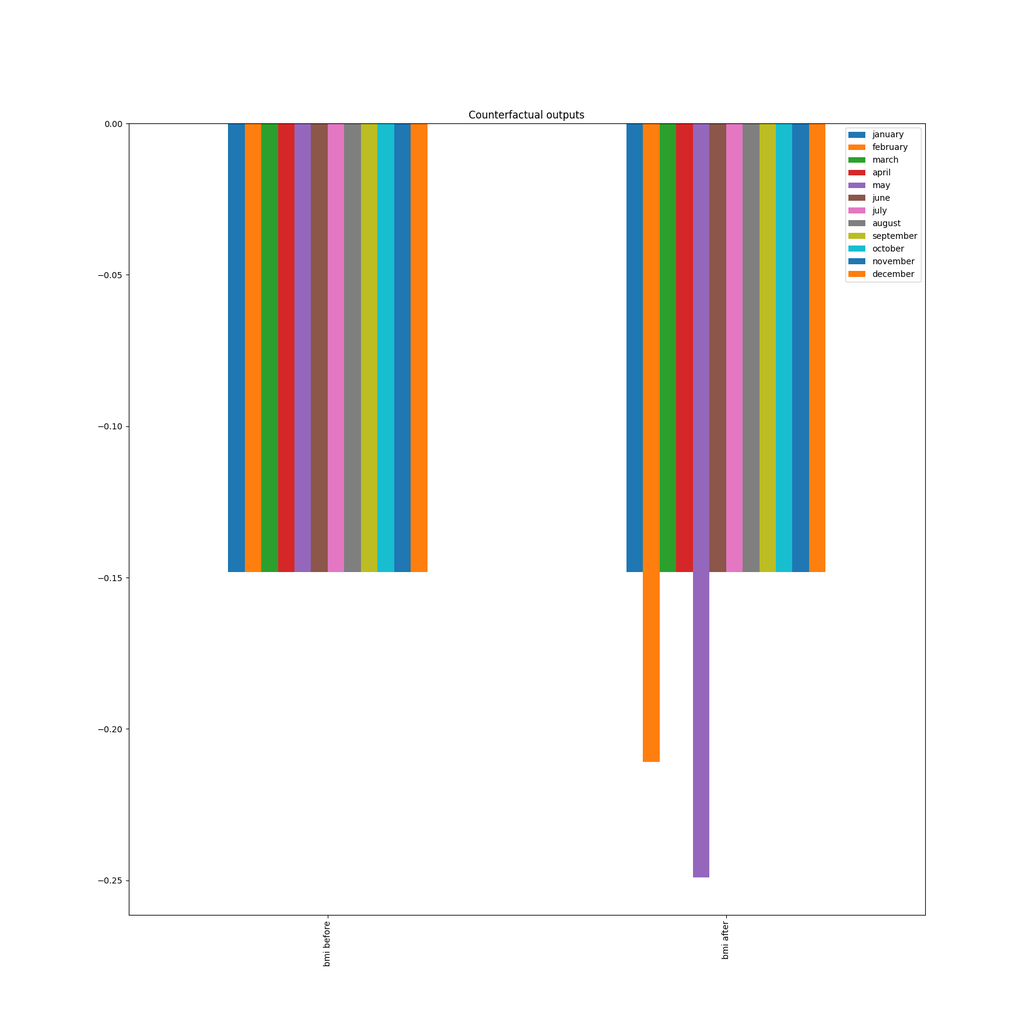
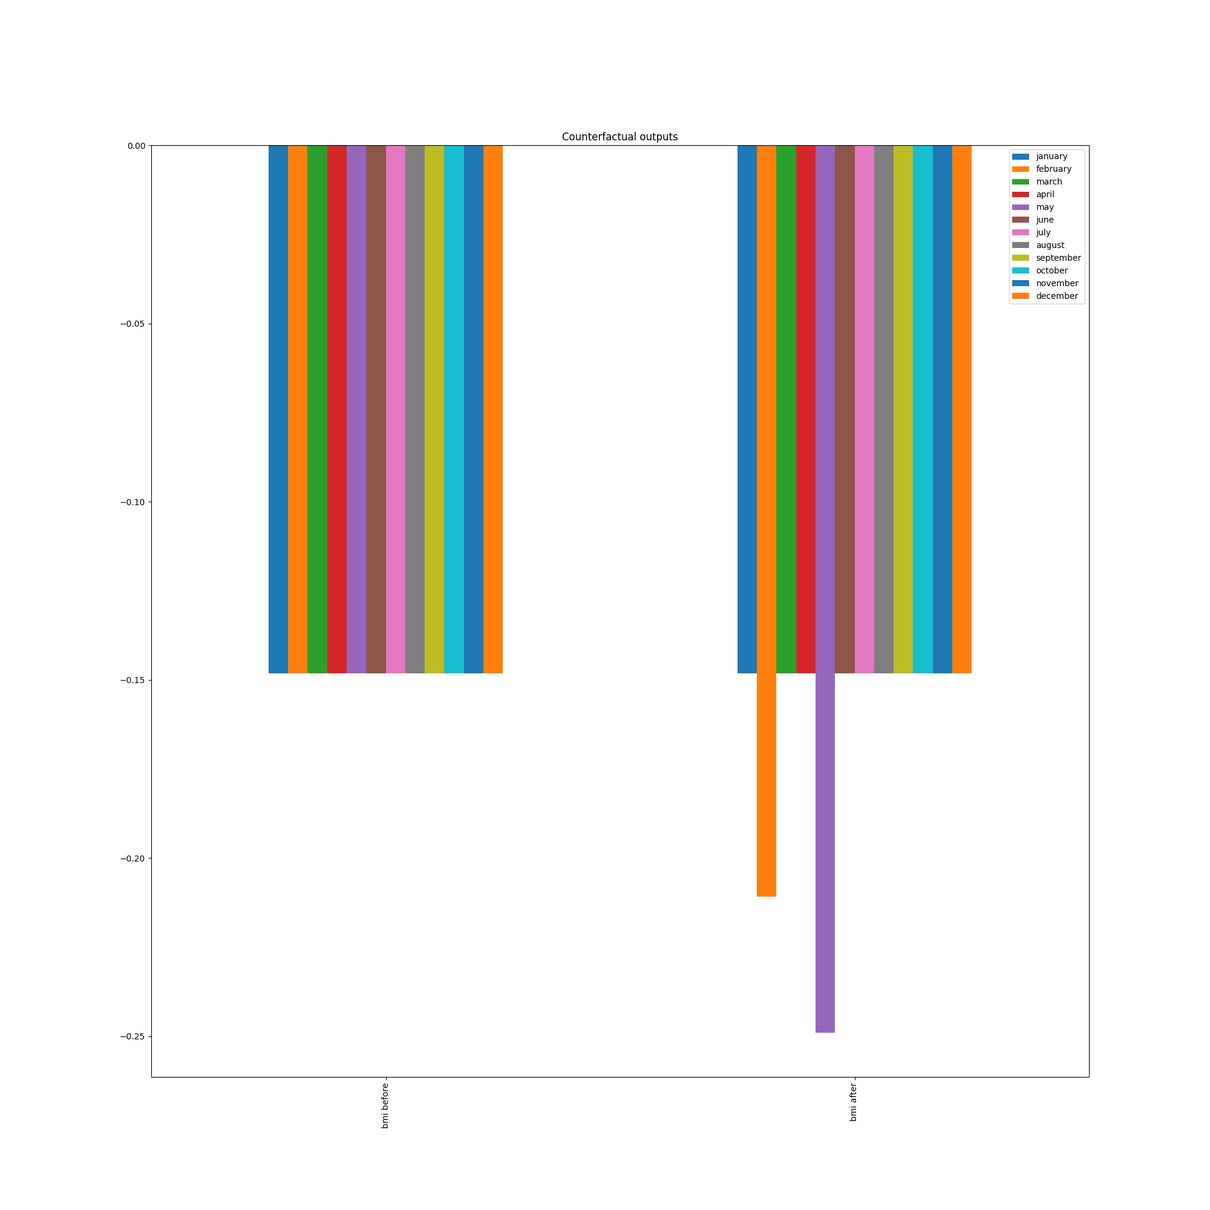
all analyses + refactoring + graphs

diff --git a/personas_analysis.py b/personas_analysis.py
@@ -41,140 +41,205 @@ gcm.auto.assign_causal_mechanisms(causal_model=causal_model_for_counterfactual_a
 fitting = gcm.fit(causal_model=causal_model_for_counterfactual_analysis, data=fitness_data,
                   return_evaluation_summary=True)
 
-pids_personas = [2, 5, 6, 8, 11, 26, 30, 41, 108, 165, 172, 262]
+pids_personas = [2, 5, 6, 8, 11, 26, 30, 41, 108, 165, 202, 262]
 
-
-# PID=2: reduce daily_steps
-fitness_data_pid = fitness_data[fitness_data['participant_id'] == 2]
-
-counterfactual_data1 = gcm.counterfactual_samples(causal_model_for_counterfactual_analysis,
-                                                  {'daily_steps': lambda x: x - 2},
-                                                  observed_data=fitness_data_pid)
-array_plot = np.array(
-    [fitness_data_pid['calories_burned'], fitness_data_pid['fitness_level'], fitness_data_pid['bmi'],
-     counterfactual_data1['calories_burned'], counterfactual_data1['fitness_level'],
-     counterfactual_data1['bmi']])
-months = ['january', 'february', 'march', 'april', 'may', 'june', 'july', 'august', 'september', 'october',
-          'november', 'december']
-df_plot = pd.DataFrame(array_plot, columns=months, index=['calories before', 'fit level before', 'bmi before',
-                                                          'calories after', 'fit level after', 'bmi after'])
-bar_plot = df_plot.plot.bar(title="Counterfactual outputs", figsize=(17, 17))
-fig = bar_plot.get_figure()
-fig.savefig('/Users/luca_lavazza/Documents/GitHub/Health_Cefriel/graphs/Counterfactual-duration_minutes->calories_burned-pid=' + str(2))
-
-
-# PID=5: smoking_status => resting_heart_rate
-fitness_data_pid = fitness_data[fitness_data['participant_id'] == 5]
-
-counterfactual_data1 = gcm.counterfactual_samples(causal_model_for_counterfactual_analysis,
-                                                  {'smoking_status': lambda x: x + 1},  # from current to former
-                                                  observed_data=fitness_data_pid)
-counterfactual_data2 = gcm.counterfactual_samples(causal_model_for_counterfactual_analysis,
-                                                  {'smoking_status': lambda x: x - 1},  # from current to never
-                                                  observed_data=fitness_data_pid)
-array_plot = np.array(
-    [fitness_data_pid['resting_heart_rate'], counterfactual_data1['resting_heart_rate'], counterfactual_data2['resting_heart_rate']])
-months = ['january', 'february', 'march', 'april', 'may', 'june', 'july', 'august', 'september', 'october',
-          'november', 'december']
-df_plot = pd.DataFrame(array_plot, columns=months, index=['resting_heart_rate when smoking', 'resting_heart_rate when quitting',
-                                                          'resting_heart_rate if never smoked'])
-bar_plot = df_plot.plot.bar(title="Counterfactual outputs", figsize=(17, 17))
-fig = bar_plot.get_figure()
-fig.savefig('/Users/luca_lavazza/Documents/GitHub/Health_Cefriel/graphs/Counterfactual-duration_minutes->calories_burned-pid=' + str(5))
-
-
-# PID=6: duration_minutes => calories_burned
-fitness_data_pid = fitness_data[fitness_data['participant_id'] == 6]
-counterfactual_data1 = gcm.counterfactual_samples(causal_model_for_counterfactual_analysis,
-                                                  {'duration_minutes': lambda x: -3},
-                                                  observed_data=fitness_data_pid)
-counterfactual_data2 = gcm.counterfactual_samples(causal_model_for_counterfactual_analysis,
-                                                  {'duration_minutes': lambda x: 3},
-                                                  observed_data=fitness_data_pid)
-
-
-array_plot = np.array([fitness_data_pid['calories_burned'], counterfactual_data1['calories_burned'], counterfactual_data2['calories_burned']])
-months = ['january', 'february', 'march', 'april', 'may', 'june', 'july', 'august', 'september', 'october', 'november', 'december']
-df_plot = pd.DataFrame(array_plot, columns=months, index=['regular', 'lack_of', 'too_much'])
-
-bar_plot = df_plot.plot.bar(title="Counterfactual outputs", figsize=(17, 17))
-fig = bar_plot.get_figure()
-fig.savefig('/Users/luca_lavazza/Documents/GitHub/Health_Cefriel/graphs/Counterfactual-duration_minutes->calories_burned-pid=' + str(6))
-
-
-# PID=8: increase duration_minutes
-fitness_data_pid = fitness_data[fitness_data['participant_id'] == 8]
-
-counterfactual_data1 = gcm.counterfactual_samples(causal_model_for_counterfactual_analysis,
-                                                  {'duration_minutes': lambda x: x + 4},
-                                                  observed_data=fitness_data_pid)
-array_plot = np.array(
-    [fitness_data_pid['calories_burned'], fitness_data_pid['fitness_level'], fitness_data_pid['resting_heart_rate'],
-     fitness_data_pid['bmi'], counterfactual_data1['calories_burned'], counterfactual_data1['fitness_level'],
-     counterfactual_data1['resting_heart_rate'], counterfactual_data1['bmi']])
-months = ['january', 'february', 'march', 'april', 'may', 'june', 'july', 'august', 'september', 'october',
-          'november', 'december']
-df_plot = pd.DataFrame(array_plot, columns=months, index=['calories before', 'fit level before', 'heart before', 'bmi before',
-                                                          'calories after', 'fit level after', 'heart after', 'bmi after'])
-bar_plot = df_plot.plot.bar(title="Counterfactual outputs", figsize=(17, 17))
-fig = bar_plot.get_figure()
-fig.savefig('/Users/luca_lavazza/Documents/GitHub/Health_Cefriel/graphs/Counterfactual-duration_minutes->calories_burned-pid=' + str(8))
-
-
-# PID=11: daily_steps => bmi
-fitness_data_pid = fitness_data[fitness_data['participant_id'] == 11]
-
-counterfactual_data1 = gcm.counterfactual_samples(causal_model_for_counterfactual_analysis,
-                                                  {'daily_steps': lambda x: x + 2},
-                                                  observed_data=fitness_data_pid)
-array_plot = np.array([fitness_data_pid['bmi'], counterfactual_data1['bmi']])
-months = ['january', 'february', 'march', 'april', 'may', 'june', 'july', 'august', 'september', 'october',
-          'november', 'december']
-df_plot = pd.DataFrame(array_plot, columns=months, index=['bmi before', 'bmi after'])
-bar_plot = df_plot.plot.bar(title="Counterfactual outputs", figsize=(17, 17))
-fig = bar_plot.get_figure()
-fig.savefig('/Users/luca_lavazza/Documents/GitHub/Health_Cefriel/graphs/Counterfactual-duration_minutes->calories_burned-pid=' + str(11))
-
-
-# PID=26: intensity ==> avg_heart_rate
-fitness_data_pid = fitness_data[fitness_data['participant_id'] == 26]
-counterfactual_data1 = gcm.counterfactual_samples(causal_model_for_counterfactual_analysis,
-                                                  {'intensity': lambda x: 0},  # low intensity
-                                                  observed_data=fitness_data_pid)
-counterfactual_data2 = gcm.counterfactual_samples(causal_model_for_counterfactual_analysis,
-                                                  {'intensity': lambda x: 1},  # average intensity
-                                                  observed_data=fitness_data_pid)
-counterfactual_data3 = gcm.counterfactual_samples(causal_model_for_counterfactual_analysis,
-                                                  {'intensity': lambda x: 2},  # high intensity
-                                                  observed_data=fitness_data_pid)
-
-
-array_plot = np.array([fitness_data_pid['avg_heart_rate'], counterfactual_data1['avg_heart_rate'],
-                       counterfactual_data2['avg_heart_rate'], counterfactual_data3['avg_heart_rate']])
-months = ['january', 'february', 'march', 'april', 'may', 'june', 'july', 'august', 'september', 'october', 'november', 'december']
-df_plot = pd.DataFrame(array_plot, columns=months, index=['regular', 'low', 'average', 'high'])
-
-bar_plot = df_plot.plot.bar(title="Counterfactual outputs", figsize=(17, 17))
-fig = bar_plot.get_figure()
-fig.savefig('/Users/luca_lavazza/Documents/GitHub/Health_Cefriel/graphs/Counterfactual-duration_minutes->calories_burned-pid=' + str(26))
-
-
-# PID=30: smoking_status ==> calories_burned
-fitness_data_pid = fitness_data[fitness_data['participant_id'] == 30]
-
-counterfactual_data1 = gcm.counterfactual_samples(causal_model_for_counterfactual_analysis,
-                                                  {'smoking_status': lambda x: x + 1},  # from current to former
-                                                  observed_data=fitness_data_pid)
-counterfactual_data2 = gcm.counterfactual_samples(causal_model_for_counterfactual_analysis,
-                                                  {'smoking_status': lambda x: x - 1},  # from current to never
-                                                  observed_data=fitness_data_pid)
-array_plot = np.array([fitness_data_pid['calories_burned'], counterfactual_data1['calories_burned'], counterfactual_data2['calories_burned']])
-months = ['january', 'february', 'march', 'april', 'may', 'june', 'july', 'august', 'september', 'october',
-          'november', 'december']
-df_plot = pd.DataFrame(array_plot, columns=months, index=['calories_burned when smoking', 'calories_burned when quitting',
-                                                          'calories_burned if never smoked'])
-bar_plot = df_plot.plot.bar(title="Counterfactual outputs", figsize=(17, 17))
-fig = bar_plot.get_figure()
-fig.savefig('/Users/luca_lavazza/Documents/GitHub/Health_Cefriel/graphs/Counterfactual-duration_minutes->calories_burned-pid=' + str(30))
-
+for pid in pids_personas:
+    if pid == 2:
+        # PID=2: reduce daily_steps
+        fitness_data_pid = fitness_data[fitness_data['participant_id'] == 2]
+        counterfactual_data1 = gcm.counterfactual_samples(causal_model_for_counterfactual_analysis,
+                                                          {'daily_steps': lambda x: x - 2},
+                                                          observed_data=fitness_data_pid)
+        array_plot = np.array(
+            [fitness_data_pid['calories_burned'], fitness_data_pid['fitness_level'], fitness_data_pid['bmi'],
+             counterfactual_data1['calories_burned'], counterfactual_data1['fitness_level'], counterfactual_data1['bmi']])
+        months = ['january', 'february', 'march', 'april', 'may', 'june', 'july', 'august', 'september', 'october',
+                  'november', 'december']
+        df_plot = pd.DataFrame(array_plot, columns=months, index=['calories before', 'fit level before', 'bmi before',
+                                                                  'calories after', 'fit level after', 'bmi after'])
+        bar_plot = df_plot.plot.bar(title="Counterfactual outputs", figsize=(20, 20))
+        fig = bar_plot.get_figure()
+        fig.savefig('/Users/luca_lavazza/Documents/GitHub/Health_Cefriel/graphs/Counterfactual-duration_minutes->calories_burned-pid=' + str(2))
+    elif pid == 5:
+        # PID=5: smoking_status => resting_heart_rate
+        fitness_data_pid = fitness_data[fitness_data['participant_id'] == 5]
+        counterfactual_data1 = gcm.counterfactual_samples(causal_model_for_counterfactual_analysis,
+                                                          {'smoking_status': lambda x: x + 1},  # from current to former
+                                                          observed_data=fitness_data_pid)
+        counterfactual_data2 = gcm.counterfactual_samples(causal_model_for_counterfactual_analysis,
+                                                          {'smoking_status': lambda x: x - 1},  # from current to never
+                                                          observed_data=fitness_data_pid)
+        array_plot = np.array(
+            [fitness_data_pid['resting_heart_rate'],
+             counterfactual_data1['resting_heart_rate'],
+             counterfactual_data2['resting_heart_rate']])
+        months = ['january', 'february', 'march', 'april', 'may', 'june', 'july', 'august', 'september', 'october',
+                  'november', 'december']
+        df_plot = pd.DataFrame(array_plot, columns=months,
+                               index=['resting_heart_rate when smoking', 'resting_heart_rate when quitting',
+                                      'resting_heart_rate if never smoked'])
+        bar_plot = df_plot.plot.bar(title="Counterfactual outputs", figsize=(20, 20))
+        fig = bar_plot.get_figure()
+        fig.savefig('/Users/luca_lavazza/Documents/GitHub/Health_Cefriel/graphs/Counterfactual-duration_minutes->calories_burned-pid=' + str(5))
+    elif pid == 6:
+        # PID=6: duration_minutes => calories_burned
+        fitness_data_pid = fitness_data[fitness_data['participant_id'] == 6]
+        counterfactual_data1 = gcm.counterfactual_samples(causal_model_for_counterfactual_analysis,
+                                                          {'duration_minutes': lambda x: -3},
+                                                          observed_data=fitness_data_pid)
+        counterfactual_data2 = gcm.counterfactual_samples(causal_model_for_counterfactual_analysis,
+                                                          {'duration_minutes': lambda x: 3},
+                                                          observed_data=fitness_data_pid)
+        array_plot = np.array([fitness_data_pid['calories_burned'],
+                               counterfactual_data1['calories_burned'],
+                               counterfactual_data2['calories_burned']])
+        months = ['january', 'february', 'march', 'april', 'may', 'june', 'july', 'august', 'september', 'october',
+                  'november', 'december']
+        df_plot = pd.DataFrame(array_plot, columns=months, index=['regular', 'lack_of', 'too_much'])
+        bar_plot = df_plot.plot.bar(title="Counterfactual outputs", figsize=(20, 20))
+        fig = bar_plot.get_figure()
+        fig.savefig('/Users/luca_lavazza/Documents/GitHub/Health_Cefriel/graphs/Counterfactual-duration_minutes->calories_burned-pid=' + str(6))
+    elif pid == 8:
+        # PID=8: increase duration_minutes
+        fitness_data_pid = fitness_data[fitness_data['participant_id'] == 8]
+        counterfactual_data1 = gcm.counterfactual_samples(causal_model_for_counterfactual_analysis,
+                                                          {'duration_minutes': lambda x: x + 4},
+                                                          observed_data=fitness_data_pid)
+        array_plot = np.array(
+            [fitness_data_pid['calories_burned'], fitness_data_pid['fitness_level'],
+             fitness_data_pid['resting_heart_rate'], fitness_data_pid['bmi'],
+             counterfactual_data1['calories_burned'], counterfactual_data1['fitness_level'],
+             counterfactual_data1['resting_heart_rate'], counterfactual_data1['bmi']])
+        months = ['january', 'february', 'march', 'april', 'may', 'june', 'july', 'august', 'september', 'october',
+                  'november', 'december']
+        df_plot = pd.DataFrame(array_plot, columns=months,
+                               index=['calories before', 'fit level before', 'heart before', 'bmi before',
+                                      'calories after', 'fit level after', 'heart after', 'bmi after'])
+        bar_plot = df_plot.plot.bar(title="Counterfactual outputs", figsize=(20, 20))
+        fig = bar_plot.get_figure()
+        fig.savefig('/Users/luca_lavazza/Documents/GitHub/Health_Cefriel/graphs/Counterfactual-duration_minutes->calories_burned-pid=' + str(8))
+    elif pid == 11:
+        # PID=11: daily_steps => bmi
+        fitness_data_pid = fitness_data[fitness_data['participant_id'] == 11]
+        counterfactual_data1 = gcm.counterfactual_samples(causal_model_for_counterfactual_analysis,
+                                                          {'daily_steps': lambda x: x + 2},
+                                                          observed_data=fitness_data_pid)
+        array_plot = np.array([fitness_data_pid['bmi'], counterfactual_data1['bmi']])
+        months = ['january', 'february', 'march', 'april', 'may', 'june', 'july', 'august', 'september', 'october',
+                  'november', 'december']
+        df_plot = pd.DataFrame(array_plot, columns=months, index=['bmi before', 'bmi after'])
+        bar_plot = df_plot.plot.bar(title="Counterfactual outputs", figsize=(20, 20))
+        fig = bar_plot.get_figure()
+        fig.savefig('/Users/luca_lavazza/Documents/GitHub/Health_Cefriel/graphs/Counterfactual-duration_minutes->calories_burned-pid=' + str(11))
+    elif pid == 26:
+        # PID=26: intensity ==> avg_heart_rate
+        fitness_data_pid = fitness_data[fitness_data['participant_id'] == 26]
+        counterfactual_data1 = gcm.counterfactual_samples(causal_model_for_counterfactual_analysis,
+                                                          {'intensity': lambda x: 0},  # low intensity
+                                                          observed_data=fitness_data_pid)
+        counterfactual_data2 = gcm.counterfactual_samples(causal_model_for_counterfactual_analysis,
+                                                          {'intensity': lambda x: 1},  # average intensity
+                                                          observed_data=fitness_data_pid)
+        counterfactual_data3 = gcm.counterfactual_samples(causal_model_for_counterfactual_analysis,
+                                                          {'intensity': lambda x: 2},  # high intensity
+                                                          observed_data=fitness_data_pid)
+        array_plot = np.array([fitness_data_pid['avg_heart_rate'], counterfactual_data1['avg_heart_rate'],
+                               counterfactual_data2['avg_heart_rate'], counterfactual_data3['avg_heart_rate']])
+        months = ['january', 'february', 'march', 'april', 'may', 'june', 'july', 'august', 'september', 'october',
+                  'november', 'december']
+        df_plot = pd.DataFrame(array_plot, columns=months, index=['regular', 'low', 'average', 'high'])
+        bar_plot = df_plot.plot.bar(title="Counterfactual outputs", figsize=(20, 20))
+        fig = bar_plot.get_figure()
+        fig.savefig('/Users/luca_lavazza/Documents/GitHub/Health_Cefriel/graphs/Counterfactual-duration_minutes->calories_burned-pid=' + str(26))
+    elif pid == 30:
+        # PID=30: smoking_status ==> calories_burned
+        fitness_data_pid = fitness_data[fitness_data['participant_id'] == 30]
+        counterfactual_data1 = gcm.counterfactual_samples(causal_model_for_counterfactual_analysis,
+                                                          {'smoking_status': lambda x: x + 1},  # from current to former
+                                                          observed_data=fitness_data_pid)
+        counterfactual_data2 = gcm.counterfactual_samples(causal_model_for_counterfactual_analysis,
+                                                          {'smoking_status': lambda x: x - 1},  # from current to never
+                                                          observed_data=fitness_data_pid)
+        array_plot = np.array([fitness_data_pid['calories_burned'],
+                               counterfactual_data1['calories_burned'],
+                               counterfactual_data2['calories_burned']])
+        months = ['january', 'february', 'march', 'april', 'may', 'june', 'july', 'august', 'september', 'october',
+                  'november', 'december']
+        df_plot = pd.DataFrame(array_plot, columns=months,
+                               index=['calories_burned when smoking', 'calories_burned when quitting',
+                                      'calories_burned if never smoked'])
+        bar_plot = df_plot.plot.bar(title="Counterfactual outputs", figsize=(20, 20))
+        fig = bar_plot.get_figure()
+        fig.savefig('/Users/luca_lavazza/Documents/GitHub/Health_Cefriel/graphs/Counterfactual-duration_minutes->calories_burned-pid=' + str(30))
+    elif pid == 41:
+        # PID=41: daily_steps ==> calories_burned
+        fitness_data_pid = fitness_data[fitness_data['participant_id'] == 41]
+        counterfactual_data1 = gcm.counterfactual_samples(causal_model_for_counterfactual_analysis,
+                                                          {'daily_steps': lambda x: x + 2},
+                                                          observed_data=fitness_data_pid)
+        array_plot = np.array([fitness_data_pid['calories_burned'], counterfactual_data1['calories_burned']])
+        months = ['january', 'february', 'march', 'april', 'may', 'june', 'july', 'august', 'september', 'october',
+                  'november', 'december']
+        df_plot = pd.DataFrame(array_plot, columns=months, index=['calories_burned before', 'calories_burned after'])
+        bar_plot = df_plot.plot.bar(title="Counterfactual outputs", figsize=(20, 20))
+        fig = bar_plot.get_figure()
+        fig.savefig('/Users/luca_lavazza/Documents/GitHub/Health_Cefriel/graphs/Counterfactual-duration_minutes->calories_burned-pid=' + str(41))
+    elif pid == 108:
+        # PID=108: daily_steps ==> fitness_level
+        fitness_data_pid = fitness_data[fitness_data['participant_id'] == 108]
+        counterfactual_data1 = gcm.counterfactual_samples(causal_model_for_counterfactual_analysis,
+                                                          {'daily_steps': lambda x: x + 2},
+                                                          observed_data=fitness_data_pid)
+        array_plot = np.array([fitness_data_pid['fitness_level'], counterfactual_data1['fitness_level']])
+        months = ['january', 'february', 'march', 'april', 'may', 'june', 'july', 'august', 'september', 'october',
+                  'november', 'december']
+        df_plot = pd.DataFrame(array_plot, columns=months, index=['fitness_level before', 'fitness_level after'])
+        bar_plot = df_plot.plot.bar(title="Counterfactual outputs", figsize=(20, 20))
+        fig = bar_plot.get_figure()
+        fig.savefig('/Users/luca_lavazza/Documents/GitHub/Health_Cefriel/graphs/Counterfactual-duration_minutes->calories_burned-pid=' + str(108))
+    elif pid == 165:
+        # PID=165: duration_minutes ==> fitness_level/bmi
+        fitness_data_pid = fitness_data[fitness_data['participant_id'] == 165]
+        counterfactual_data1 = gcm.counterfactual_samples(causal_model_for_counterfactual_analysis,
+                                                          {'duration_minutes': lambda x: x + 3},
+                                                          observed_data=fitness_data_pid)
+        array_plot = np.array([fitness_data_pid['fitness_level'], fitness_data_pid['bmi'],
+                               counterfactual_data1['fitness_level'], counterfactual_data1['bmi']])
+        months = ['january', 'february', 'march', 'april', 'may', 'june', 'july', 'august', 'september', 'october',
+                  'november', 'december']
+        df_plot = pd.DataFrame(array_plot, columns=months,
+                               index=['fitness_level before', 'bmi_before', 'fitness_level after', 'bmi_after'])
+        bar_plot = df_plot.plot.bar(title="Counterfactual outputs", figsize=(20, 20))
+        fig = bar_plot.get_figure()
+        fig.savefig('/Users/luca_lavazza/Documents/GitHub/Health_Cefriel/graphs/Counterfactual-duration_minutes->calories_burned-pid=' + str(165))
+    elif pid == 202:
+        # PID=202: duration_minutes ==> resting_heart_rate
+        fitness_data_pid = fitness_data[fitness_data['participant_id'] == 202]
+        counterfactual_data1 = gcm.counterfactual_samples(causal_model_for_counterfactual_analysis,
+                                                          {'duration_minutes': lambda x: x + 3},
+                                                          observed_data=fitness_data_pid)
+        array_plot = np.array([fitness_data_pid['resting_heart_rate'], counterfactual_data1['resting_heart_rate']])
+        months = ['january', 'february', 'march', 'april', 'may', 'june', 'july', 'august', 'september', 'october',
+                  'november', 'december']
+        df_plot = pd.DataFrame(array_plot, columns=months,
+                               index=['resting_heart_rate before', 'resting_heart_rate after'])
+        bar_plot = df_plot.plot.bar(title="Counterfactual outputs", figsize=(20, 20))
+        fig = bar_plot.get_figure()
+        fig.savefig('/Users/luca_lavazza/Documents/GitHub/Health_Cefriel/graphs/Counterfactual-duration_minutes->calories_burned-pid=' + str(202))
+    elif pid == 262:
+        # PID=262: daily_steps ==> fitness_level + duration_minutes ==> fitness_level
+        fitness_data_pid = fitness_data[fitness_data['participant_id'] == 262]
+        counterfactual_data1 = gcm.counterfactual_samples(causal_model_for_counterfactual_analysis,
+                                                          {'duration_minutes': lambda x: x + 3,
+                                                           'daily_steps': lambda x: x + 2},
+                                                          observed_data=fitness_data_pid)
+        array_plot = np.array([fitness_data_pid['fitness_level'], counterfactual_data1['fitness_level']])
+        months = ['january', 'february', 'march', 'april', 'may', 'june', 'july', 'august', 'september', 'october',
+                  'november', 'december']
+        df_plot = pd.DataFrame(array_plot, columns=months, index=['fitness_level before', 'fitness_level after'])
+        bar_plot = df_plot.plot.bar(title="Counterfactual outputs", figsize=(20, 20))
+        fig = bar_plot.get_figure()
+        fig.savefig('/Users/luca_lavazza/Documents/GitHub/Health_Cefriel/graphs/Counterfactual-duration_minutes->calories_burned-pid=' + str(262))
+    else:
+        print('PID ' + str(pid) + ' not found.')
 

diff --git a/dowhy_analysis.py b/dowhy_analysis.py
@@ -17,7 +17,7 @@ import warnings
 warnings.filterwarnings(action='ignore', category=FutureWarning)
 warnings.filterwarnings(action='ignore', category=UserWarning)
 
-set_random_seed(42)
+set_random_seed(7)
 
 fitness_data = pd.read_csv(
     '/Users/luca_lavazza/Documents/GitHub/Health_Cefriel/datasets/labelled_regularised_averaged_health_fitness_dataset.csv')
